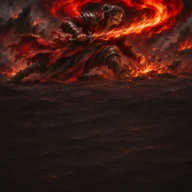
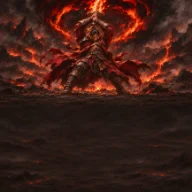
CPUが割り込みを使っていなかった札を直し、不具合報告が開けないのを直した（続き782）
ユーザー依頼5件。

🔴🔴 ①「CPUは他の割り込み効果も使わなかったりする？」→ まだ2枚あった。
推測せず機械で洗い出した結果、リトルマウスとロックチェンジが一度も使われていなかった
（やり直しのカギ・裏貴族の賄賂は #620/#624 で直っていた）。原因はどれも同じで、
handEffectValueFor に登録が無く default: return 0 に静かに落ちていた。
3回起きたので検査にした（21本目・tools/check-cpu-interrupts.mjs）。
🔴 A/B で検査の穴が出た。最初はファイル全体から id を探していたので、優先順の表に
名前が在るだけで合格してしまった（値の登録が無ければ CPU は選ばないのに）。
⇒ 値を決める関数の中だけを見る形に直し、3通り崩して3通りとも落ちることを確認。
⚠ リーチキャンセルだけは別の道（到達効果の窓）なので、理由つきで除外に入れた。

② 志炎者のイラスト4枚（黄・桃・赤・緑）を差し替えて焼き直した。
色で1対1に決まることを並べた絵で確かめてから動かし、前の版は _前の版 へ退避。

③ 管理者のテスト用「リメイク＋志炎者」（志炎者は各1枚）。26種119枚・7色とも15枚。
🔴 元の定義（count:7）は書き換えず写しを作る——同じ配列を図鑑やマイ山札も見ている。

🔴🔴 ④ debug確認：読めなかった。しかもそれ自体が不具合だった。
so7_get_admin_bug_reports が statement timeout（57014）で落ち、ダッシュボードが固まる
（報告722件）。2026-11-10（557件）にも同じ事故が起きていて、その時は PostgREST の
列選択で凌いだが、あれは送る量を減らすだけでサーバーの仕事は減らない。
⇒ 一覧用の軽い関数（大きい列を作らず件数を絞る）と1件用の関数に分けた。

⑤ v2 の切り替えは既に在った（⚙オプション →「動きが重い・カクつくとき」）。#679 で
まさに同じ理由から足したもの。重複して足しかけ、構文エラーで気づいて取り消した。

実測 scratchpad/_p782.mjs 9項目・NG 0・例外0・404 0。
npm run check 21本とも合格、npm test 234/234 PASS。
🔴 SQL を追記した＝Supabase の SQL Editor で手で流す必要がある（全文の再実行は安全）。
Edge Function の変更は無い＝再デプロイ不要。

diff --git a/src/changelog.js b/src/changelog.js
@@ -58,24 +58,28 @@ export const CHANGELOG = [
       "我忘れの白き龍が動いた時に、カードの円盤を並べて見せます",
       "コレクションに「？」の札が並びました",
       "志炎者7枚の効果が自動で処理されるようになりました",
+      "CPUも割り込みのカードを使うようになりました",
     ],
     summaryEn: [
       "Cards opened from the codex are now much larger",
       "The dial from the card is now shown when the White Dragon of Oblivion moves",
       "Mystery cards appear in your collection",
       "The seven Shien cards now resolve automatically",
+      "The CPU now uses interrupt cards too",
     ],
     items: [
       "**図鑑でカードを開いた時の札を大きくしました。** スマホの横向きでは**2倍以上**（絵が 107px → 214px）、パソコンでも2倍（179px → 358px）になります。カード名と補足の文字も大きくしました。",
       "**我忘れの白き龍【色者】のお知らせに、カードに描かれている円盤を並べて見せるようにしました。** 「捨色は緑。上へ1マス動かしました」と文で出ていても、どうしてその向きなのかは円盤を見ないと分かりません。これからはお知らせの中に円盤そのものが出るので、その場で確かめられます。オンラインでは相手の画面にも同じように出ます。",
       "コレクションに**「？」の札が7枚**並びました。まだお見せできない、**特別な方法でしか手に入らないカード**です。7色ぶんあります——色だけは出ているので、どの色の札が来るかは分かります。手に入れると、その札だけ**ふつうのカードとして**名前と絵が出ます。",
       "**志炎者7枚のカード効果が、アプリで自動的に処理される**ようになりました。到達効果では、相手全員に「同じ色のカードを１枚捨てて２枚引きますか？」と聞きます——**１人でも捨てたなら**、そのカードの大きい効果が起きます。手札効果は２つから選べます。そして**【志炎】**——相手がこれと**同じ色のカードの手札効果を使った直後**にだけ宣言できる、割り込みの効果も使えます。",
+      "**CPUが割り込みのカードを使うようになりました。** 志炎者の【志炎】はもちろん、**リトルマウス**と**ロックチェンジ**も——この2枚は、これまでCPUが**一度も使っていませんでした**（使える場面でも検討すらしていなかった）。やり直しのカギと裏貴族の賄賂は先に直してありましたが、同じ取りこぼしが残っていたので、まとめて直しました。",
     ],
     itemsEn: [
       "**Cards opened from the codex are now much bigger.** On a phone in landscape the art is more than twice the size (107px to 214px), and on a computer it is twice as big (179px to 358px). The card name and notes are larger too.",
       "**The dial printed on the White Dragon of Oblivion is now shown in its notice.** Reading \"a green card came up, so it moved one square up\" does not tell you why that direction was chosen - you have to look at the dial. Now the dial itself appears right in the notice, so you can check on the spot. In online games it shows the same way on everyone's screen.",
       "**Seven mystery cards** now sit in your collection. They are special cards you can only get in a particular way, and we are not showing them yet. There is one for each of the seven colors — the color is visible, so you can tell which colors are coming. Once you own one, that card shows its real name and art like any other.",
       "**The seven Shien cards now resolve automatically.** On arrival, every opponent is asked whether to discard one card of the matching color to draw two — and **if at least one of them does**, the card's larger effect happens. The hand effect gives you two choices, and that includes **Shien**: an interrupt you may declare only right after an opponent uses the hand effect of a card of the same color.",
+      "**The CPU now uses interrupt cards.** That covers Shien on the new cards, and also **Little Mouse** and **Lock Change** — the CPU had **never once** used those two, not even considering them when it could. Redo Key and the Noble's Bribe were fixed earlier; the same gap was still there for the rest, so we closed it.",
     ],
     fixes: [
       "２マス移動する効果が、1マスずつ2回動く形になりました",
@@ -83,6 +87,7 @@ export const CHANGELOG = [
       "我忘れの白き龍が、白・黒が出た時も動いてしまっていました",
       "我忘れの白き龍が動いた時に、何色が出たのかを出すようにしました",
       "白・黒・虹の色の名前が出ない所がありました",
+      "管理者の画面で、不具合報告の一覧が開けなくなっていたのを直しました。",
     ],
     fixesEn: [
       "Two-square moves are now taken one square at a time, twice",
@@ -90,6 +95,7 @@ export const CHANGELOG = [
       "The White Dragon of Oblivion moved even when a white or black card came up",
       "The White Dragon of Oblivion now tells you which color came up when it moves",
       "Some places did not show the names of the white, black and rainbow colors",
+      "Fixed the admin page so the bug report list opens again.",
     ],
     devItems: [
       "🔴🔴 **円盤の並びが、カードの絵と左右逆だった**（ユーザー裁定「新しい並びに合わせよう！」）。アプリは**旧0th拡張のカードの補足**（緑＝上／黄＝右上／橙＝右／赤＝右下／白＝下／紫＝左下／桃＝左／青＝左上）どおりに作ってあったが、**リメイクの絵**（`D:/Adobe退避/SOSC_通常カード_表_only１.png`）の円盤は**その左右を反転した並び**で、**白の枠が無い**（下は「7」の切り欠き）。⇒ 緑＝上／**青＝右上／桃＝右／紫＝右下／赤＝左下／橙＝左／黄＝左上**に直した。🔴 **目で読まずに測った**——角度ごとに画素の色を拾った（`scratchpad/_disc.mjs`）: 上 rgb(24,171,103) 緑／右上 rgb(24,182,201) 青／右 rgb(237,156,192) 桃／右下 rgb(160,84,154) 紫／下 **色なし**／左下 rgb(211,37,73) 赤／左 rgb(237,145,14) 橙／左上 rgb(248,210,33) 黄。⚠ 下が空なのは「無色は動かない」という裁定と一致する。",
@@ -183,6 +189,13 @@ export const CHANGELOG = [
       "⚠ 実測で1件捕まえた: 橙の「すべて」を `count: \"all\"` と書いたが、動詞は数しか受けないので **`0 < \"all\"` が false で1回も回らなかった**（＝何も起きない）。動詞側で「すべて」を受けるようにし、その時は**マスを聞かない**（どれも結局取るので手を止めるだけ）。",
       "⚠ **検査の抜けを2つ直した**: `check-cards` のカード名の名簿と id の名簿に `cards-data-0th.js` / `cards-data-cf.js` が無く、**実在するのに「実在しない」「消し忘れ？」と14件の嘘の指摘**が出た。セットを足したらここにも足すこと。",
       "⚠ **テストの土台にも2つ足した**: 割り込みの窓に `color` を渡せるようにし、**選択肢1つずつ**「今使えるか」を見る `optionUsable` を作った。カード全体の `handUsable` では【志炎】の枝が見えない（ふつうの方が使えるので true のままになる）。",
+      "🔴 **CPU が「いつでも／割り込み」の札を使わないままになっていないかを、機械で見張るようにした**（検査21本目・`tools/check-cpu-interrupts.mjs`）。この事故は**3回起きている**（#620 やり直しのカギ／#624 裏貴族の賄賂／続き782 でリトルマウス・ロックチェンジ）。原因はどれも同じで、`cpu-brain.js` の `handEffectValueFor` に登録が無く **`default: return 0` に静かに落ちていた**。落ちても誰も何も言わない。",
+      "🔴 **A/B で検査の穴が1つ出た。** 最初はファイル全体から id を探していたので、**優先順の表（OPTION_RANK）に名前が在るだけで合格**してしまった（値の登録が無ければ CPU はそのカードを**選ばない**のに）。⇒ **値を決める関数の中だけ**を見る形に直した。わざと3通り崩して3通りとも名指しで落ちることを確かめてある。",
+      "⚠ **リーチキャンセルだけは別の道**（到達効果の窓＝`requiresArrivalEffectWindow`。`isHandEffectOptionUsable` が常に false を返し、実行は main.js の専用の窓）。検査の「意図的な除外」に**理由つきで**入れてある。CPU が使えるようにするには別の仕組みが要る。",
+      "🔴 **志炎者7枚のイラストのうち4枚（黄・桃・赤・緑）を差し替えて焼き直した。** 前の版は消さずに素材フォルダの `_前の版` へ退避してある。⚠ どれがどの札かは**色で1対1に決まることを並べた絵で目で確かめてから**動かした（名前だけで決めない）。",
+      "⚠ **管理者のテスト用に「リメイク＋志炎者」のセットを足した**（志炎者は**各1枚**）。⚠ 元の定義（`count: 7`）は書き換えず**写しを作る**——同じ配列を図鑑やマイ山札も見ているので、ここで書き換えると表示まで1枚になる。実測で「元が7のまま」を見ている。",
+      "🔴 **管理者ダッシュボードの不具合報告が1件も開けなくなっていた**（`so7_get_admin_bug_reports` が **statement timeout 57014**。報告 **722件**）。⇒ **一覧用の軽い関数**（大きい列を1つも作らず、件数を絞る）と**1件用の関数**に分けた。⚠ 2026-11-10（557件）にも同じ事故が起きていて、その時は PostgREST の列選択で凌いだが、**あれは「送る量」を減らすだけでサーバーの仕事は減らない**ので件数が増えてまた落ちた。とくに `context` には動作確認（続き757）の計測が丸ごと入るので1件が重い。",
+      "⚠ **v2 の切り替えは既に在った**（⚙オプション →「動きが重い・カクつくとき」→「新しい見た目を試す（この端末だけ）」）。#679 で**まさに同じ理由**（ホーム画面アプリはブラウザと別の保管場所を持ち、`?ui=v2` が伝わらない）から足したもの。私は一度**重複して足しかけ**、構文エラーで気づいて取り消した。",
     ],
   },
   {

diff --git a/src/cpu-brain.js b/src/cpu-brain.js
@@ -409,6 +409,18 @@ export function chooseDeclaredColors(cardId, requiredCount, driveSeat) {
 // 中からランダム（新人相当）にフォールバックする。usableCandidates は usable:true のものだけが
 // 渡ってくる前提（呼び出し側で絞り込み済み）。
 const OPTION_RANK = {
+  // 0thリメイクの限定カード（志炎者7枚・続き782）: 【志炎】が使えるなら必ずそちら。
+  // 🔴 **【志炎】は窓が開いている時しか候補に入らない**（isHandEffectOptionUsable が絞る）ので、
+  //   ここで上に置いても「いつでも大きい方を撃つ」にはならない。窓の中でだけ効く。
+  // ⚠ 表が無いと `chooseEffectOption` は**ランダム**に落ちる＝せっかく割り込んだのに
+  //   小さい方を選ぶことがある（それでは割り込んだ意味がない）。
+  "cf-red-ignis": { "cf-red-ignis-shien": 3, "cf-red-ignis-plain": 1 },
+  "cf-orange-brand": { "cf-orange-brand-shien": 3, "cf-orange-brand-plain": 1 },
+  "cf-yellow-scintilla": { "cf-yellow-scintilla-shien": 3, "cf-yellow-scintilla-plain": 1 },
+  "cf-green-ember": { "cf-green-ember-shien": 3, "cf-green-ember-plain": 1 },
+  "cf-blue-candela": { "cf-blue-candela-shien": 3, "cf-blue-candela-plain": 1 },
+  "cf-pink-flamma": { "cf-pink-flamma-shien": 3, "cf-pink-flamma-plain": 1 },
+  "cf-purple-favilla": { "cf-purple-favilla-shien": 3, "cf-purple-favilla-plain": 1 },
   // パーティー（pink-party）: 場のカードを手札に得る(pickup)＞1マス移動(move)＞2枚オープン(open-two)。
   // 高いほど良い。
   // ユーザー要望2026-09-01「パーティの効果では2マスオープンを選ばないように（非合理なことが
@@ -1091,6 +1103,34 @@ function handEffectValueFor(card, seat, state, handCount) {
       // ロック済み＝追色コストが実質タダの時だけ、「引いて今ターン使えるものがあれば使う」ために撃つ。
       // 緑がまだ要る色なら温存。使用可否（別の緑あり＋1/turn）はcanUseHandEffectが担保。
       return !neededColors(state, seat).has("green") ? 1 : 0;
+    // --- 0thリメイクの限定カード（志炎者7枚・続き782）--------------------------------
+    // 🔴 ユーザー依頼「CPUも使うようにして」。
+    //   ⚠ 【志炎】は窓（相手が同色の手札効果を使った直後）でしか候補に入らない。
+    //     ここの値は「窓の中で撃つか」と「自分のハンドフェイズに小さい方を撃つか」の両方に効く。
+    //   ⚠ 手札を1枚失う（この札自身を捨てる）ので、**見返りが在る時だけ**撃つ。
+    case "cf-red-ignis":      // 任意のマスのカードをすべて捨てる
+    case "cf-yellow-scintilla": // 任意のマスのカードをオープンする
+    case "cf-green-ember":    // 裏向きのカードを別のマスへ
+    case "cf-blue-candela":   // 相手全員が手札を捨てる
+    case "cf-orange-brand":   // あなたの隣のカードを手札に加える
+    case "cf-pink-flamma":    // ドロー
+    case "cf-purple-favilla": // 強制移動
+      return cf志炎の値(t, seat, state, handCount);
+    // --- 取りこぼしていた割り込み3枚（続き782 で見つけた）-----------------------------
+    // 🔴 どれも `default: 0` に落ちていて**一度も選ばれていなかった**（#620/#624 と同じ形）。
+    case "ex0-yellow-little-mouse":
+      // リトルマウス: 1番多くロックしている人から無作為に奪う。**相手のターンにも割り込める**。
+      // ⚠ 自分のターンに使うと「このターンを終了する」が付くので、ハンドフェイズの頭では損。
+      //   ⇒ **自分のターンでない時**（＝割り込み）だけ撃つ。
+      return state.turnPlayer !== seat ? 2 : 0;
+    case "1st-yellow-lock-change":
+      // ロックチェンジ: 自分のロック札を手札に戻す。**色を1つ失う**ので、ふだんは損。
+      //   ⇒ 手札が尽きかけている時（0〜1枚）だけ、手を作るために撃つ。
+      return handCount <= 1 ? 1 : 0;
+    // ⚠ リーチキャンセル（ex0-yellow-reach-cancel）はここには書けない。
+    //   あれは **到達効果の窓**（requiresArrivalEffectWindow）で、`isHandEffectOptionUsable` が
+    //   常に false を返す作り（実行は main.js の専用の窓）。CPU の割り込みは別の道が要る。
+    //   **申し送りに残す**（ここで 0 に落ちているのは正しい）。
     // --- 割り込み（相手のロック宣言に差し込む札）------------------------------------
     // 🔴【#620/#624・2026-11-14】報告「CPUが私の最後のロックの時にやり直しの鍵を使ってこなかった」
     //   「最後ロックする時、CPUが賄賂を使ってこなかった」。**どちらもここに登録が無く、
@@ -1112,6 +1152,21 @@ function handEffectValueFor(card, seat, state, handCount) {
     default:
       return 0;
   }
+}
+
+// 0thリメイクの限定カード（志炎者7枚）の手札効果の値（続き782）。
+// 🔴 7枚とも**同じ骨**なので1つの関数で決める（7回書くと必ず1枚ずれる）。
+// 考え方:
+//   ・**窓の中（＝相手の手札効果に割り込める）なら積極的に撃つ**。大きい方が使えるので見返りが大きい。
+//   ・自分のハンドフェイズでは**小さい方**しか使えないので、手札に余裕がある時だけ。
+//   ・手札が1枚（これだけ）なら撃たない——この札自身を捨てるので手札が0になる。
+function cf志炎の値(token, seat, state, handCount) {
+  if (handCount <= 1) return 0; // これを捨てると手札が無くなる
+  // 窓の中かどうかは**本家の判定に聞く**（条件を書き写すとズレる）。
+  // ⚠ ここでは「自分のターンではない＝割り込みの場面」で代用する。窓そのものは
+  //   isHandEffectOptionUsable が既に見ていて、使えない選択肢は候補に入らない。
+  if (state.turnPlayer !== seat) return 3; // 割り込めるなら撃つ
+  return handCount >= 4 ? 1 : 0;           // 自分の番は、手札に余裕がある時だけ
 }
 
 export function chooseHandEffectCard(usableCards, driveSeat) {

diff --git a/src/admin-dashboard.js b/src/admin-dashboard.js
@@ -233,21 +233,22 @@ function renderBugReports() {
 //   になる（557件の時点で実測12.6秒・29.9秒とも失敗＝報告が1件も読めなくなっていた）。
 //   ⚠ context は残す（一覧で添付画像の有無を出すのに要る）。実測 727ms / 1.1MB / 557件。
 //   ⚠ PostgREST は RPC の結果にも select を掛けられるので、**SQL は変えなくてよい**。
-const BUG_REPORT_LIST_COLUMNS = "id,created_at,email,display_name,comment,resolved,context";
+// ⚠【続き782】**もう使っていない**（so7_get_admin_bug_reports_list が列を決める）。
+//   消さずに残すのは、ここに「なぜ context を一覧で持たないか」の経緯が書いてあるため。
+const BUG_REPORT_LIST_COLUMNS = "id,created_at,email,display_name,comment,resolved";
 
 // 1件ぶんのログを取りに行く（既に持っていれば何もしない）。
 // 「詳細」「コピー」など、**本当にログが要る時だけ**呼ぶ。
 async function ensureBugReportLogs(row) {
   if (!row || row.__logsLoaded) return row;
   try {
-    const { data, error } = await client
-      .rpc("so7_get_admin_bug_reports")
-      .select("id,action_log,console_log")
-      .eq("id", row.id)
-      .limit(1);
+    // 🔴【続き782】**1件だけ**を取りに行く専用の関数（一覧の関数は大きい列を作らない）。
+    const { data, error } = await client.rpc("so7_get_admin_bug_report", { p_id: row.id });
     if (!error && data && data[0]) {
       row.action_log = data[0].action_log;
       row.console_log = data[0].console_log;
+      // ⚠ context も1件ずつ取る（一覧では作らないので、見取り図はここで初めて描ける）。
+      row.context = data[0].context;
       row.__logsLoaded = true;
     }
   } catch (err) {
@@ -258,7 +259,10 @@ async function ensureBugReportLogs(row) {
 
 async function loadBugReports() {
   bugReportStatusEl.textContent = "読み込み中...";
-  const { data, error } = await client.rpc("so7_get_admin_bug_reports").select(BUG_REPORT_LIST_COLUMNS);
+  // 🔴【続き782】**軽い一覧用の関数**を呼ぶ。
+  //   前は so7_get_admin_bug_reports に列選択を掛けていたが、**あれは送る量を減らすだけで
+  //   サーバーの仕事は減らない**ので、722件で statement timeout になり1件も読めなくなった。
+  const { data, error } = await client.rpc("so7_get_admin_bug_reports_list", { p_limit: 300 });
   if (error) {
     bugReportStatusEl.textContent = `取得に失敗しました: ${error.message}`;
     return;
@@ -334,7 +338,11 @@ function bugReportToText(row) {
   );
 }
 function bugReportShotUrl(row) {
-  return row.context && typeof row.context.shotUrl === "string" ? row.context.shotUrl : null;
+  // 🔴【続き782】一覧は context を持たない（重いので作らない）。代わりに SQL 側が
+  //   `context ->> 'shotUrl'` だけ取り出して shot_url で返す。**両方を見る**
+  //   （1件ぶんを取った後は context が入るので、古い道も生かしておく）。
+  if (typeof row?.shot_url === "string" && row.shot_url) return row.shot_url;
+  return row?.context && typeof row.context.shotUrl === "string" ? row.context.shotUrl : null;
 }
 
 // 🔴【2026-11-14】ユーザーの問い「今の画面のスクショを自動で保存される形にできない？」への答え。

diff --git a/src/deck-viewer.js b/src/deck-viewer.js
@@ -19,6 +19,7 @@ import {
 import { EX0_NORMAL_CARDS } from "./cards-data-ex0.js";
 import { FIRST_ED_NORMAL_CARDS, FIRST_ED_FIRST_CARDS } from "./cards-data-1st.js";
 import { OLD0TH_NORMAL_CARDS } from "./cards-data-0th.js";
+import { CF_NORMAL_CARDS } from "./cards-data-cf.js"; // 0thリメイクの限定カード（志炎者7枚・続き782）
 import { getCardSet, CARD_SETS } from "./card-set.js";
 import { showCardFace } from "./card-face-display.js";
 import { createModalCloseX, createBackdrop } from "./ui-helpers.js";
@@ -365,7 +366,12 @@ export function buildDeckSections(opts = {}) {
   if (セット === CARD_SETS.OLD_0TH) {
     wrap.appendChild(buildSection(t("deckviewer.old0th"), 色でそろえる(OLD0TH_NORMAL_CARDS)));
   }
-  if (セット === CARD_SETS.REMAKE || 混ぜる) {
+  // 🔴【続き782】リメイク＋志炎者。リメイクの19種と志炎者7種の**両方**を出す。
+  //   ⚠ 片方だけ出すと「一覧に無い札が出てくる」になる（この関数の上のコメントの通り）。
+  if (セット === CARD_SETS.REMAKE_CF) {
+    wrap.appendChild(buildSection(t("deckviewer.cf"), 色でそろえる(CF_NORMAL_CARDS)));
+  }
+  if (セット === CARD_SETS.REMAKE || セット === CARD_SETS.REMAKE_CF || 混ぜる) {
     wrap.appendChild(buildSection(t("deckviewer.normal"), 色でそろえる(NORMAL_CARDS)));
   }
   // エターナル。🔴 1st EDITION を選んでいる時は**その対局で実際に出てくるのは1st のEカード**

diff --git a/src/ui-text.js b/src/ui-text.js
@@ -1457,6 +1457,8 @@ const UI = {
     "on.label.noLogYet": "（まだログはありません）",
     "on.err.deckLoad": "マイデッキの読み込みに失敗しました（my_deck列が未追加の可能性）",
     "on.err.langLoad": "言語設定の読み込みに失敗しました（lang列が未追加の可能性）",
+    "home.matchChoice.cardSetRemakeCf": "リメイク＋志炎者（各1枚・テスト用）",
+    "deckviewer.cf": "志炎者（限定報酬）",
     "cef.opt.cfFlip1": "任意の１マスのカードをオープンする。",
     "cef.opt.cfShienFlip4": "【志炎】任意の４マスのカードをオープンする。",
     "cef.opt.cfDraw1": "１枚ドロー。",
@@ -3945,6 +3947,8 @@ const UI = {
     "on.label.noLogYet": "(no log yet)",
     "on.err.deckLoad": "Couldn't load your decks (the my_deck column may not exist yet)",
     "on.err.langLoad": "Couldn't load the language setting (the lang column may not exist yet)",
+    "home.matchChoice.cardSetRemakeCf": "Remake + Shien (1 each, testing)",
+    "deckviewer.cf": "Shien cards (limited reward)",
     "cef.opt.cfFlip1": "Open the card on any 1 space.",
     "cef.opt.cfShienFlip4": "[Shien] Open the cards on any 4 spaces.",
     "cef.opt.cfDraw1": "Draw 1 card.",

diff --git a/src/cards-data.js b/src/cards-data.js
@@ -235,6 +235,14 @@ function 標準の山札() {
   //   なるべく均等になるように」。以前は3セットを**そのまま繋げていた**ので赤だけで42枚・
   //   合計322枚になっていた。組み方は src/mixed-deck.js の冒頭に書いてある。
   if (set === CARD_SETS.MIXED) return buildMixedNormalCards(NORMAL_CARDS, EX0_NORMAL_CARDS, FIRST_ED_NORMAL_CARDS);
+  // 🔴【続き782】リメイク ＋ 志炎者（**各1枚**）。管理者のテスト用。
+  //   ⚠ 志炎者の count は 7（山札に入れられる枚数）だが、ここでは **1枚ずつ**に上書きする
+  //     （ユーザー指示「この時志炎者は１枚ずつでいいです」）。
+  //   ⚠ 元の定義を書き換えない（**写しを作る**）——同じ配列を他所も見ているので、
+  //     ここで count を書き換えると図鑑やマイ山札の表示まで 1 になる。
+  if (set === CARD_SETS.REMAKE_CF) {
+    return [...NORMAL_CARDS, ...CF_NORMAL_CARDS.map((c) => ({ ...c, count: 1 }))];
+  }
   return NORMAL_CARDS;
 }
 

diff --git a/src/card-set.js b/src/card-set.js
@@ -19,6 +19,11 @@ export const CARD_SETS = {
   FIRST_ED: "1st", // 1st EDITION の19種＋なないろの欠片（2026-11-05 追加）
   OLD_0TH: "0th", // 旧0th EDITION の19種＋なないろの欠片（2026-11-19 追加）
   MIXED: "mixed", // 全部まぜる（枚数は単純に合算。試験用）
+  // 🔴【続き782】ユーザー依頼「管理者としてEDITION選ぶときリメイクと志炎者を混ぜたやつを
+  //   ラインナップに入れたい。テスト用に！この時志炎者は１枚ずつでいいです」。
+  //   ⚠ 志炎者は**限定報酬**なので、持ち物とは関係なく**このセットを選んだ時だけ**山札に入る
+  //     （テスト用。ふだんの手に入れ方は変えていない）。
+  REMAKE_CF: "remake+cf", // リメイクの19種 ＋ 志炎者7種（各1枚）。管理者のテスト用
 };
 
 const KEY = "so7-card-set";

diff --git a/src/changelog-signature.js b/src/changelog-signature.js
@@ -18,7 +18,7 @@
 // 一般に見せる回＝`items` か `fixes` が1件以上ある回（管理者だけの回は数えない。
 // 管理者かどうかで署名を変えないのは、ログインの読み込みが終わるまで判定が false を返すため
 // ——混ぜると起動直後だけ NEW が付いたり消えたりする＝続き484 の経緯）。
-export const CHANGELOG_SIGNATURE = "2026-11-20|9|96";
+export const CHANGELOG_SIGNATURE = "2026-11-20|11|96";
 
 const CHANGELOG_READ_KEY = "so7-changelog-read";
 

diff --git a/src/home-screen.js b/src/home-screen.js
@@ -693,6 +693,8 @@ function openMatchChoiceModal(opts = {}) {
       [CARD_SETS.FIRST_ED, "home.matchChoice.cardSet1st"],
       [CARD_SETS.OLD_0TH, "home.matchChoice.cardSet0th"],
       [CARD_SETS.MIXED, "home.matchChoice.cardSetMixed"],
+      // 🔴【続き782】志炎者を本物の対局で試すための枠（管理者だけ）。志炎者は各1枚。
+      [CARD_SETS.REMAKE_CF, "home.matchChoice.cardSetRemakeCf"],
     ]) {
       const b = document.createElement("button");
       b.type = "button";

diff --git a/src/online-ui.js b/src/online-ui.js
@@ -183,6 +183,8 @@ function buildRoomCardSetChooser() {
     [CARD_SETS.FIRST_ED, "home.matchChoice.cardSet1st"],
     [CARD_SETS.OLD_0TH, "home.matchChoice.cardSet0th"],
     [CARD_SETS.MIXED, "home.matchChoice.cardSetMixed"],
+    // 🔴【続き782】志炎者を本物の対局で試すための枠（管理者だけ）。志炎者は各1枚。
+    [CARD_SETS.REMAKE_CF, "home.matchChoice.cardSetRemakeCf"],
   ]) {
     const b = document.createElement("button");
     b.type = "button";

diff --git a/src/deck-choice-ui.js b/src/deck-choice-ui.js
@@ -51,6 +51,8 @@ const 試験 = [
   { set: CARD_SETS.EX0, key: "home.matchChoice.cardSetEx0" },
   { set: CARD_SETS.OLD_0TH, key: "home.matchChoice.cardSet0th" },
   { set: CARD_SETS.MIXED, key: "home.matchChoice.cardSetMixed" },
+  // 🔴【続き782】志炎者を本物の対局で試すための枠（ユーザー依頼）。志炎者は各1枚。
+  { set: CARD_SETS.REMAKE_CF, key: "home.matchChoice.cardSetRemakeCf" },
 ];
 
 function 管理者か() {

diff --git a/src/app-version.js b/src/app-version.js
@@ -1,3 +1,3 @@
 // 自動生成（.git/hooks/pre-commit）。デプロイのたびに更新される「今実行しているコード」の
 // バージョン。version.json と必ず同じ値になる。update-checker.js が使う基準値。
-export const APP_VERSION = "20261121-092658";
+export const APP_VERSION = "20261121-101754";
